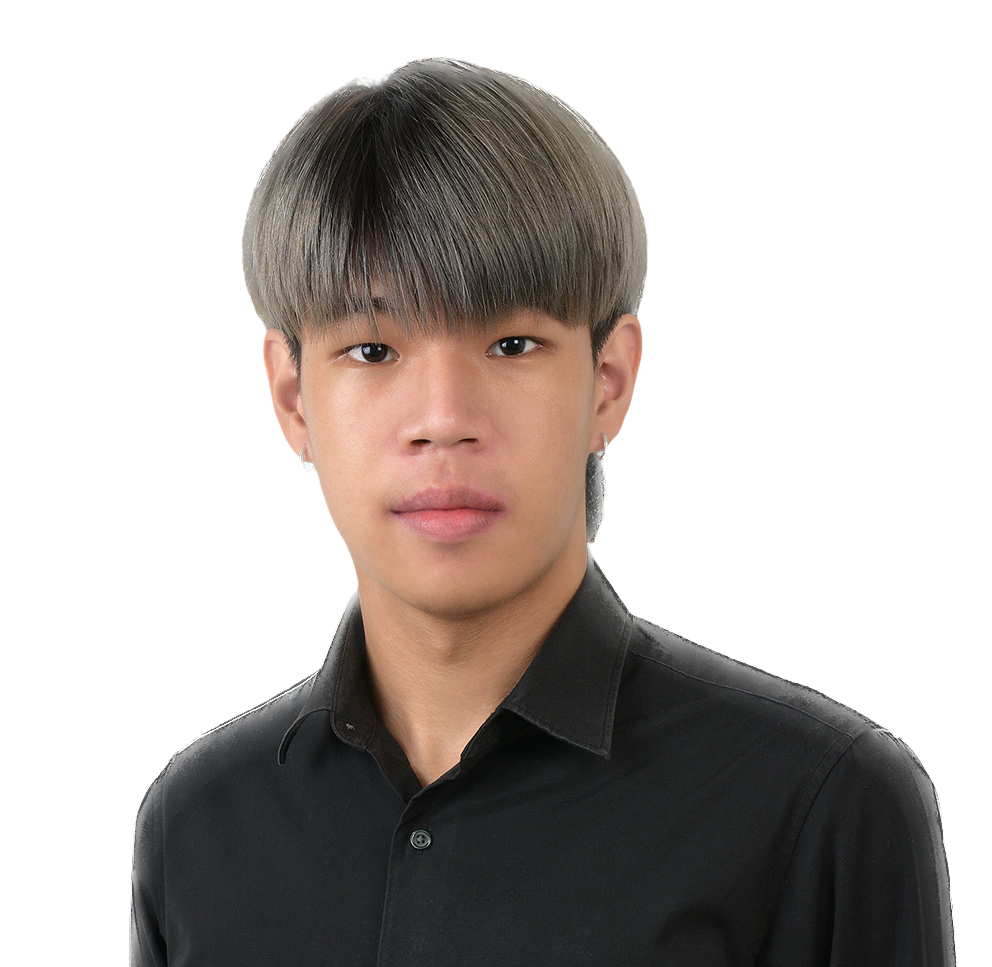
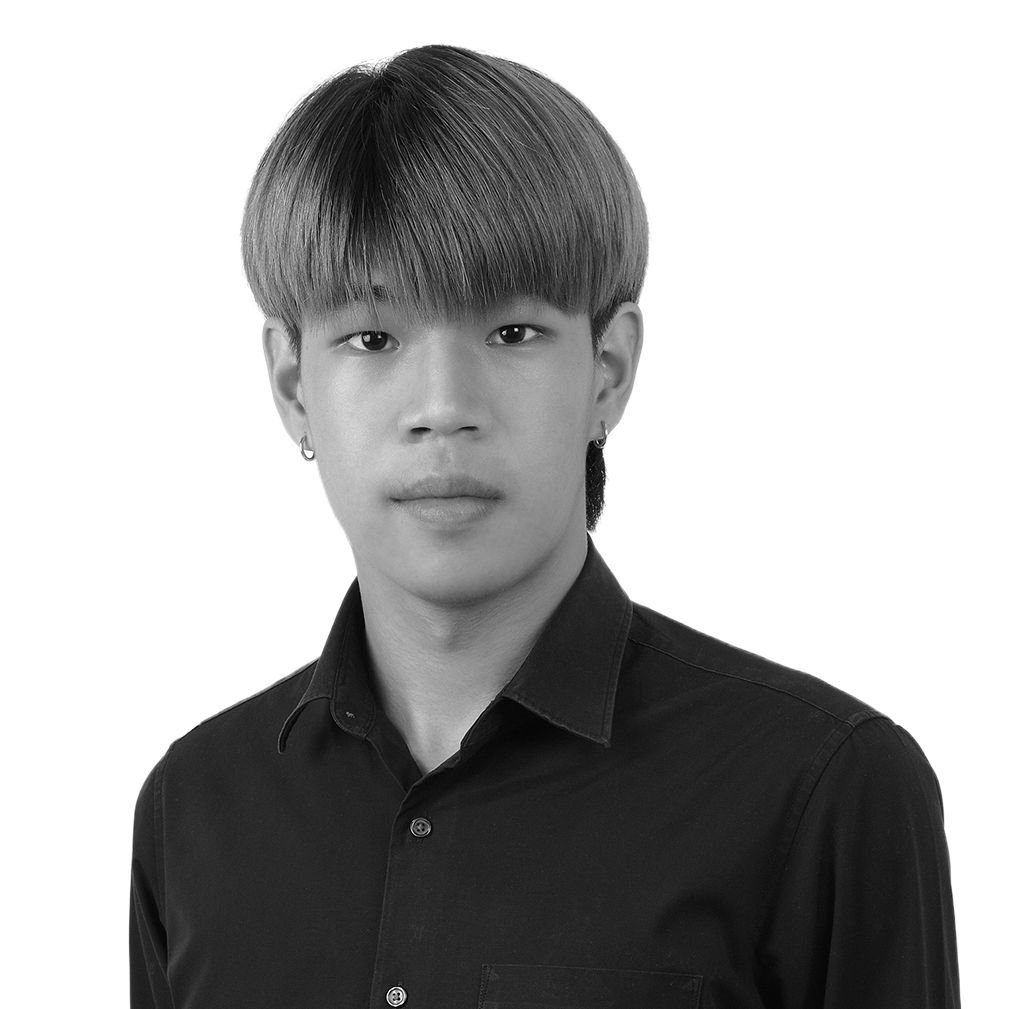
change color

diff --git a/src/index.css b/src/index.css
@@ -220,8 +220,8 @@
 
 .black-nobg-gradient {
   background: "#3C2A21";
-  background: linear-gradient(90.13deg, #3c2a21 1.9%, #d5cea3 97.5%);
-  background: -webkit-linear-gradient(-90.13deg, #3c2a21 1.9%, #d5cea3 97.5%);
+  background: linear-gradient(90.13deg, #3d3c3c 1.9%, #b5b5b5 97.5%);
+  background: -webkit-linear-gradient(-90.13deg, #3d3c3c 1.9%, #b5b5b5 97.5%);
 }
 
 .animation_img {
@@ -253,10 +253,10 @@
   height: 500px;
   width: 500px;
   border-radius: 50%;
-  background: #9f8772;
-  background: linear-gradient(45deg, #f7e8db 23%, #c9b7a7 67%);
-  background: -webkit-linear-gradient(45deg, #f7e8db 23%, #c9b7a7 67%);
-  left: -2%;
+  background: #d3d3d3;
+  background: linear-gradient(45deg, #3d3c3c 5%, #d3d3d3 90%);
+  background: -webkit-linear-gradient(45deg, #3d3c3c 5%, #d3d3d3 90%);
+  left: 5%;
   top: 45%;
   animation: animateCircle 9s linear infinite;
 }
@@ -275,9 +275,9 @@
   height: 200px;
   width: 200px;
   border-radius: 50%;
-  background: #9f8772;
-  background: linear-gradient(-30deg, #c9b7a7 25%, #9f8772 75%);
-  background: -webkit-linear-gradient(30deg, #c9b7a7 25%, #9f8772 75%);
+  background: #d3d3d3;
+  background: linear-gradient(-75deg, #3d3c3c 5%, #d3d3d3 90%);
+  background: -webkit-linear-gradient(-75deg, #3d3c3c 5%, #d3d3d3 90%);
   left: 35%;
   top: 40%;
   animation: animateSmCircle 9s linear infinite;
@@ -299,10 +299,10 @@
   /* height: 33%; */
   /* width: 33%; */
   border-radius: 50%;
-  background: #9f8772;
-  background: linear-gradient(45deg, #9f8772 23%, #c9b7a7 67%);
-  background: -webkit-linear-gradient(45deg, #9f8772 23%, #c9b7a7 67%);
-  right: 4%;
+  background: #d3d3d3;
+  background: linear-gradient(45deg, #3d3c3c 5%, #d3d3d3 90%);
+  background: -webkit-linear-gradient(45deg, #3d3c3c 5%, #d3d3d3 90%);
+  right: 5%;
   top: 5%;
   animation: animateCircle_c 9s linear infinite;
 }
@@ -321,9 +321,9 @@
   /* height: 200px;
   width: 200px; */
   border-radius: 50%;
-  background: #9f8772;
-  background: linear-gradient(-30deg, #c9b7a7 25%, #9f8772 75%);
-  background: -webkit-linear-gradient(30deg, #c9b7a7 25%, #9f8772 75%);
+  background: #d3d3d3;
+  background: linear-gradient(-75deg, #3d3c3c 5%, #d3d3d3 90%);
+  background: -webkit-linear-gradient(-75deg, #3d3c3c 5%, #d3d3d3 90%);
   left: 10%;
   top: 40%;
   animation: animateSmCircle_c 9s linear infinite;
@@ -345,9 +345,9 @@
   /* height: 33%; */
   /* width: 33%; */
   border-radius: 50%;
-  background: #9f8772;
-  background: linear-gradient(45deg, #9f8772 23%, #c9b7a7 67%);
-  background: -webkit-linear-gradient(45deg, #9f8772 23%, #c9b7a7 67%);
+  background: #d3d3d3;
+  background: linear-gradient(45deg, #3d3c3c 5%, #d3d3d3 90%);
+  background: -webkit-linear-gradient(45deg, #3d3c3c 5%, #d3d3d3 90%);
   /* left: 50%;
   top: 30%; */
   /* animation: animateCircle_m 9s linear infinite; */
@@ -367,9 +367,9 @@
   /* height: 200px;
   width: 200px; */
   border-radius: 50%;
-  background: #9f8772;
-  background: linear-gradient(-30deg, #c9b7a7 25%, #9f8772 75%);
-  background: -webkit-linear-gradient(30deg, #c9b7a7 25%, #9f8772 75%);
+  background: #d3d3d3;
+  background: linear-gradient(-75deg, #3d3c3c 5%, #d3d3d3 90%);
+  background: -webkit-linear-gradient(-75deg, #3d3c3c 5%, #d3d3d3 90%);
   left: 3%;
   top: 60%;
   animation: animateSmCircle_m 9s linear infinite;
@@ -377,7 +377,7 @@
 
 @keyframes animateSmCircle_m {
   50% {
-    transform: translateX(30px);
+    transform: translateX(20px);
     top: 62%;
   }
 }

diff --git a/src/components/Home.jsx b/src/components/Home.jsx
@@ -5,7 +5,7 @@ import { useState, useEffect } from "react";
 import picture from "../assets/My project.png";
 import { resume } from "../assets";
 
-const Hero = () => {
+const Home = () => {
   const [loopNum, setLoopNum] = useState(0);
   const [isDeleting, setIsDeleting] = useState(false);
   const toRotate = ["Shutter", "Phakin"];
@@ -142,14 +142,14 @@ const Hero = () => {
           <div className="relative">
             <h1 className={`${styles.heroHeadText}`}>
               Hi, I'm{" "}
-              <span className="text-[#6F171C]">
+              <span className="text-[#7c0404]">
                 {text}
                 <span style={{ visibility: isVisible ? "visible" : "hidden" }}>
                   |
                 </span>
               </span>
             </h1>
-            <p className={`${styles.heroSubText} mt-2 text-wood`}>
+            <p className={`${styles.heroSubText} mt-2 text-secondary`}>
               I develop 3D visuals, user <br className="sm:block hidden" />
               interfaces and web applications
             </p>
@@ -170,7 +170,7 @@ const Hero = () => {
               id="collapseCircle"
               href={resume}
               download="Phakin_Resume"
-              className="c_circle text-wood text-[25px] font-bold"
+              className="c_circle text-white text-[25px] font-bold"
               style={{
                 height: `${circleWidth * 0.55}px`,
                 width: `${circleWidth * 0.55}px`,
@@ -208,11 +208,11 @@ const Hero = () => {
               id="collapseCircle"
               href={resume}
               download="Phakin_Resume"
-              className="m_circle text-wood text-[25px] font-bold"
+              className="m_circle text-white text-[25px] font-bold"
               style={{
                 height: `${(645 - circleWidth) * 0.5}px`,
                 width: `${(645 - circleWidth) * 0.5}px`,
-                right: `10px`,
+                right: `5%`,
                 top: `30%`,
                 fontSize: `${(643 - circleWidth) * 0.05}px`,
                 animation: " animateCircle_m 9s linear infinite",
@@ -243,11 +243,11 @@ const Hero = () => {
             <a
               href={resume}
               download="Phakin_Resume"
-              className="circle text-wood text-[40px] font-bold"
+              className="circle text-white text-[40px] font-bold"
               style={{
-                height: `${circleWidth * 0.7}px`,
-                width: `${circleWidth * 0.7}px`,
-                fontSize: `${circleWidth * 0.06}px`,
+                height: `${circleWidth * 0.5}px`,
+                width: `${circleWidth * 0.5}px`,
+                fontSize: `${circleWidth * 0.05}px`,
               }}
             >
               Download Resume
@@ -272,4 +272,4 @@ const Hero = () => {
   );
 };
 
-export default Hero;
+export default Home;

diff --git a/src/components/Contact.jsx b/src/components/Contact.jsx
@@ -76,40 +76,42 @@ const Contact = () => {
           className="mt-12 flex flex-col gap-8"
         >
           <label className="flex flex-col">
-            <span className="text-wood font-medium mb-4">Your Name</span>
+            <span className="text-secondary font-medium mb-4">Your Name</span>
             <input
               type="text"
               name="name"
               value={form.name}
               onChange={handleChange}
               placeholder="What's your name?"
-              className="bg-tertiary py-4 px-6 placeholder:text-fifth text-secondary rounded-lg outlined-none border-none font-medium"
+              className="bg-tertiary py-4 px-6 placeholder:text-fifth text-primary rounded-lg outlined-none border-none font-medium"
             />
           </label>
           <label className="flex flex-col">
-            <span className="text-wood font-medium mb-4">Your Email</span>
+            <span className="text-secondary font-medium mb-4">Your Email</span>
             <input
               type="email"
               name="email"
               value={form.email}
               onChange={handleChange}
               placeholder="What's your email?"
-              className="bg-tertiary py-4 px-6 placeholder:text-fifth text-secondary rounded-lg outlined-none border-none font-medium"
+              className="bg-tertiary py-4 px-6 placeholder:text-fifth text-primary rounded-lg outlined-none border-none font-medium"
             />
           </label>
           <label className="flex flex-col">
-            <span className="text-wood font-medium mb-4">Your Message</span>
+            <span className="text-secondary font-medium mb-4">
+              Your Message
+            </span>
             <textarea
               rows="7"
               name="message"
               value={form.message}
               onChange={handleChange}
               placeholder="What's do you want to say?"
-              className="bg-tertiary py-4 px-6 placeholder:text-fifth text-secondary rounded-lg outlined-none border-none font-medium"
+              className="bg-tertiary py-4 px-6 placeholder:text-fifth text-primary rounded-lg outlined-none border-none font-medium"
             />
           </label>
           <button
-            className="bg-tertiary py-3 px-8 outline-none w-fit text-secondary font-bold shadow-md shadow-primary rounded-xl"
+            className="bg-secondary py-3 px-8 outline-none w-fit text-primary font-bold shadow-md shadow-primary rounded-xl"
             type="submit"
           >
             {loading ? "Sending..." : "Send"}

diff --git a/src/components/Projects.jsx b/src/components/Projects.jsx
@@ -23,7 +23,7 @@ const ProjectCard = ({
           scale: 1,
           speed: 450,
         }}
-        className="bg-tertiary p-5 rounded-2xl sm:w-[360px] w-full"
+        className="bg-card p-5 rounded-2xl sm:w-[360px] w-full"
       >
         <div className="relative w-full h-[230px]">
           <img
@@ -46,7 +46,7 @@ const ProjectCard = ({
         </div>
 
         <div className="mt-5">
-          <h3 className="text-white font-bold text-[24px]">{name}</h3>
+          <h3 className="text-secondary font-bold text-[24px]">{name}</h3>
           <p className="mt-2 text-secondary text-[14px]">{description}</p>
 
           <div className="mt-4 flex flex-wrap gap-2">
@@ -72,7 +72,7 @@ const Works = () => {
       <div className="w-full flex">
         <motion.p
           variants={fadeIn("", "", 0.1, 1)}
-          className="mt-3 text-wood-bright text-[17px] max-w-3xl leading-[30px]"
+          className="mt-3 text-grey text-[17px] max-w-3xl leading-[30px]"
         >
           The following projects are about a web application related to my field
           of interest. Each project is briefly described with links to the code

diff --git a/src/components/Navbar.jsx b/src/components/Navbar.jsx
@@ -10,6 +10,7 @@ const Navbar = () => {
   return (
     <nav
       className={`${styles.paddingX} w-full flex items-center py-5 fixed top-0 z-20 bg-primary`}
+      style={{ borderBottom: "1px solid #9E9E9E" }}
     >
       <div className="w-full flex justify-between items-center max-w-7x1 mx-auto">
         <Link
@@ -21,7 +22,7 @@ const Navbar = () => {
           }}
         >
           <img src={logo} alt="logo" className="w-9 h-9 object-contain" />
-          <p className="text-wood text-[18px] font-bold cursor-pointer flex">
+          <p className="text-secondary text-[18px] font-bold cursor-pointer flex">
             | Phakin &nbsp;<span className="sm:block hidden"> Buddha</span>
           </p>
         </Link>
@@ -30,7 +31,7 @@ const Navbar = () => {
             <li
               key={link.id}
               className={`${
-                active === link.title ? "text-wood" : "text-fifth"
+                active === link.title ? "text-secondary" : "text-inactive"
               } hover:text-wood cursor-pointer`}
               onClick={() => setActive(link.title)}
             >

diff --git a/src/styles.js b/src/styles.js
@@ -3,12 +3,13 @@ const styles = {
   paddingY: "sm:py-16 py-6",
   padding: "sm:px-16 px-6 sm:py-16 py-10",
   heroHeadText:
-    "font-black text-wood lg:text-[80px] sm:text-[60px] xs:text-[50px] text-[40px] lg:leading-[98px] mt-2",
+    "font-black text-secondary lg:text-[80px] sm:text-[60px] xs:text-[50px] text-[40px] lg:leading-[98px] mt-2",
   heroSubText:
-    "text-wood font-medium lg:text-[30px] sm:text-[26px] xs:text-[20px] text-[16px] lg:leading-[40px]",
+    "text-secondary font-medium lg:text-[30px] sm:text-[26px] xs:text-[20px] text-[16px] lg:leading-[40px]",
   sectionHeadText:
-    "text-wood font-black md:text-[60px] sm:text-[50px] xs:text-[40px] text-[30px]",
+    "text-secondary font-black md:text-[60px] sm:text-[50px] xs:text-[40px] text-[30px]",
   sectionSubText:
-    "sm:text-[18px] text-[14px] text-wood-bright uppercase tracking-wider",
+    "sm:text-[18px] text-[14px] text-grey uppercase tracking-wider",
 };
+
 export { styles };

diff --git a/src/components/About.jsx b/src/components/About.jsx
@@ -23,7 +23,7 @@ const ServiceCard = ({ index, title, icon }) => {
           className="bg-primary rounded-[20px] py-5 px-12 min-h-[180px] flex justify-evenly items-center flex-col"
         >
           <img src={icon} alt={title} className="w-16 h-16 object-contain" />
-          <h3 className="text-wood text-[20px] font-bold text-center">
+          <h3 className="text-secondary text-[20px] font-bold text-center">
             {title}
           </h3>
         </div>
@@ -42,7 +42,7 @@ const About = () => {
 
       <motion.p
         variants={fadeIn("", "", 0.1, 1)}
-        className="mt-1 text-wood-bright text-[17px] max-w-3xl leading-[30px]"
+        className="mt-1 text-grey text-[17px] max-w-3xl leading-[30px]"
       >
         A diligent and motivated senior in computer engineering of Chulalongkorn
         University with strong leadership, problem- solving, and critical

diff --git a/tailwind.config.js b/tailwind.config.js
@@ -5,18 +5,12 @@ module.exports = {
   theme: {
     extend: {
       colors: {
-        primary: "#E5E5CB",
-        secondary: "#D5CEA3",
-        tertiary: "#3C2A21",
-        forth: "#1A120B",
-        fifth: "#9F8772",
-        wood: "#573523",
-        "wood-bright": "#7d543e",
-        "wood-brightest": "#8f654f",
-        "black-100": "#100d25",
-        "black-200": "#090325",
-        "white-100": "#f3f3f3",
-        "all-black": "#000",
+        primary: "#fafafa",
+        secondary: "#1A1A1A",
+        inactive: "#9E9E9E",
+        normal: "#212121",
+        grey: "#969696",
+        card: "#e2e0e0",
       },
       boxShadow: {
         card: "0px 35px 120px -15px #211e35",

diff --git a/src/components/index.js b/src/components/index.js
@@ -1,4 +1,4 @@
-import Hero from "./Hero";
+import Home from "./Home";
 import Navbar from "./Navbar";
 import About from "./About";
 import Tech from "./Tech";
@@ -6,4 +6,4 @@ import Experience from "./OthersProjects";
 import Works from "./Projects";
 import Contact from "./Contact";
 
-export { Hero, Navbar, About, Tech, Experience, Works, Contact };
+export { Home, Navbar, About, Tech, Experience, Works, Contact };

diff --git a/src/App.jsx b/src/App.jsx
@@ -3,7 +3,7 @@ import {
   About,
   Contact,
   Experience,
-  Hero,
+  Home,
   Navbar,
   Tech,
   Works,
@@ -17,7 +17,8 @@ function App() {
       <div className="relative z-0 bg-primary">
         <div className="bg-hero-pattern bg-cover bg-no-repeat bg-center">
           <Navbar />
-          <Hero />
+
+          <Home />
         </div>
         <About />
         <Projects />

diff --git a/src/components/OthersProjects.jsx b/src/components/OthersProjects.jsx
@@ -15,8 +15,8 @@ import { fadeIn, textVariant } from "../utils/motion";
 const ExperienceCard = ({ experience }) => (
   <VerticalTimelineElement
     contentStyle={{
-      background: "#E5E5CB",
-      color: "#573523",
+      background: "#e2e0e0",
+      color: "#1A1A1A",
     }}
     contentArrowStyle={{ borderRight: "7px solid #573523" }}
     date={experience.date}

diff --git a/src/assets/index.js b/src/assets/index.js
@@ -35,6 +35,8 @@ import tripguide from "./tripguide.png";
 
 import resume from "./Resume.pdf";
 
+import circleBg from "./circle.png";
+
 export {
   logo,
   backend,
@@ -67,4 +69,5 @@ export {
   fullStack,
   resume,
   tester,
+  circleBg,
 };
